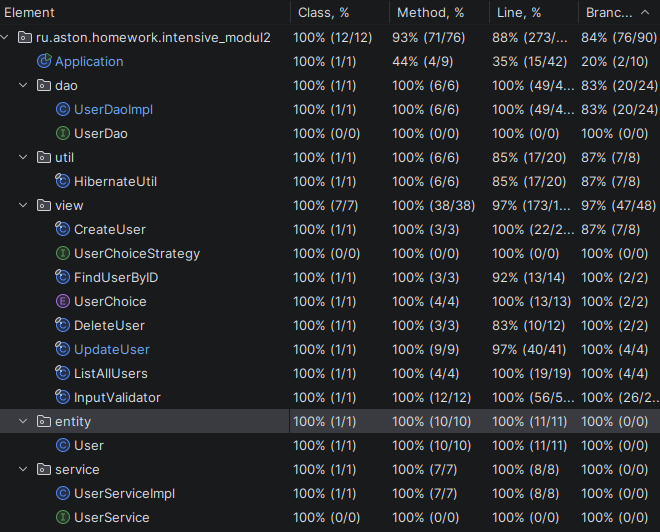
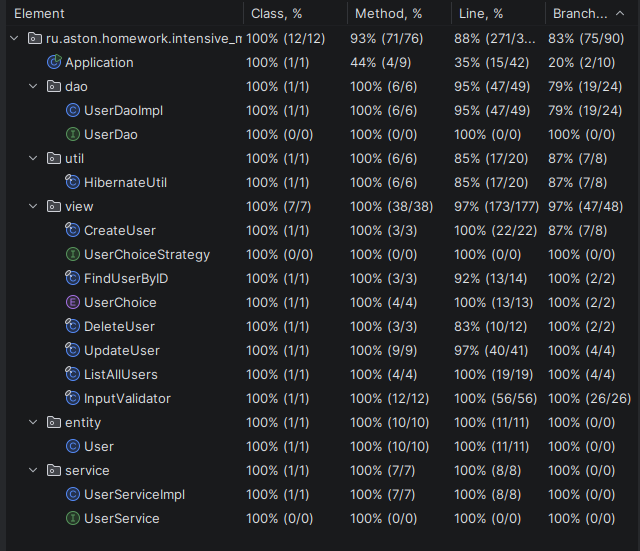
Fixed UserDaoTest, changed screenshots

diff --git a/src/test/java/ru/aston/homework/intensive_modul2/dao/UserDaoTest.java b/src/test/java/ru/aston/homework/intensive_modul2/dao/UserDaoTest.java
@@ -1,47 +1,27 @@
 package ru.aston.homework.intensive_modul2.dao;
 
-import jakarta.transaction.Transactional;
-import org.hibernate.HibernateException;
-import org.hibernate.Session;
 import org.junit.jupiter.api.AfterAll;
 import org.junit.jupiter.api.AfterEach;
 import org.junit.jupiter.api.BeforeAll;
 import org.junit.jupiter.api.BeforeEach;
 import org.junit.jupiter.api.Test;
-import org.junit.jupiter.api.extension.ExtendWith;
-import org.mockito.InjectMocks;
-import org.mockito.Mock;
-import org.mockito.MockedStatic;
-import org.mockito.MockitoAnnotations;
-import org.mockito.junit.jupiter.MockitoExtension;
 import org.testcontainers.junit.jupiter.Container;
 import org.testcontainers.junit.jupiter.Testcontainers;
 import org.testcontainers.containers.PostgreSQLContainer;
 import org.testcontainers.utility.DockerImageName;
 import ru.aston.homework.intensive_modul2.entity.User;
 import ru.aston.homework.intensive_modul2.util.HibernateUtil;
+
 import java.util.List;
 import java.util.Optional;
+
 import static org.assertj.core.api.Assertions.assertThat;
 import static org.assertj.core.api.AssertionsForClassTypes.tuple;
 import static org.junit.jupiter.api.Assertions.*;
-import static org.mockito.ArgumentMatchers.any;
-import static org.mockito.ArgumentMatchers.anyLong;
-import static org.mockito.ArgumentMatchers.anyString;
-import static org.mockito.ArgumentMatchers.eq;
-import static org.mockito.Mockito.doThrow;
-import static org.mockito.Mockito.mockStatic;
-import static org.mockito.Mockito.when;
 
-@Transactional
 @Testcontainers
-@ExtendWith(MockitoExtension.class)
 class UserDaoTest {
 
-    @Mock
-    private Session session;
-
-    @InjectMocks
     private UserDaoImpl userDao;
 
     @Container
@@ -67,7 +47,6 @@ class UserDaoTest {
         System.setProperty("hibernate.connection.username", db.getUsername());
         System.setProperty("hibernate.connection.password", db.getPassword());
         userDao = new UserDaoImpl();
-        MockitoAnnotations.openMocks(this);
     }
 
     @AfterEach
@@ -76,10 +55,8 @@ class UserDaoTest {
             sess.beginTransaction();
             sess.createMutationQuery("DELETE FROM User")
                     .executeUpdate();
-
             sess.getTransaction().commit();
         } catch (Exception e) {
-            e.printStackTrace();
             throw new RuntimeException("Ошибка очистки базы данных", e);
         }
     }
@@ -165,36 +142,6 @@ class UserDaoTest {
         Optional<User> deletedUser = userDao.findById(id);
         assertFalse(deletedUser.isPresent());
     }
-
-    @Test
-    void testDeleteWithRollback() {
-        User user = new User();
-        user.setName("Rollback Test");
-        user.setEmail("rollback@test.com");
-        user.setAge(25);
-        Long id = userDao.create(user);
-
-        try (MockedStatic<HibernateUtil> hibernateMock = mockStatic(HibernateUtil.class)) {
-            hibernateMock.when(HibernateUtil::getSession)
-                    .thenReturn(session);
-
-            when(session.get(User.class, id))
-                    .thenReturn(user);
-
-            doThrow(new RuntimeException("Симулированная ошибка"))
-                    .when(session)
-                    .remove(any());
-
-            try {
-                userDao.delete(id);
-                fail("Ожидалось исключение");
-            } catch (RuntimeException e) {
-
-                assertTrue(userDao.exists(id));
-            }
-        }
-    }
-
 
     @Test
     void testExists() {
@@ -285,21 +232,16 @@ class UserDaoTest {
 
     @Test
     void testUpdateWithActiveTransaction() {
-
         User user = new User();
         user.setName("Active Transaction Test");
         user.setEmail("active@test.com");
         user.setAge(25);
         Long id = userDao.create(user);
-
         Optional<User> optionalUser = userDao.findById(id);
         assertTrue(optionalUser.isPresent());
-
         User updatedUser = optionalUser.get();
         updatedUser.setName("Updated Name");
-
         userDao.update(updatedUser);
-
         User finalUser = userDao.findById(id).orElse(null);
         assertNotNull(finalUser);
         assertEquals("Updated Name", finalUser.getName());
@@ -307,143 +249,18 @@ class UserDaoTest {
 
     @Test
     void testUpdateWithNoTransaction() {
-            User user = new User();
-            user.setName("No Transaction Test");
-            user.setEmail("notransaction@test.com");
-            user.setAge(25);
-            Long id = userDao.create(user);
-
-            Optional<User> optionalUser = userDao.findById(id);
-            assertTrue(optionalUser.isPresent());
-
-            User updatedUser = optionalUser.get();
-            updatedUser.setName("Updated Name");
-
-            userDao.update(updatedUser);
-
-            User finalUser = userDao.findById(id).orElse(null);
-            assertNotNull(finalUser);
-            assertEquals("Updated Name", finalUser.getName());
-    }
-
-    @Test
-    void testUpdateWithRollback() {
-
         User user = new User();
-        user.setName("Rollback Test");
-        user.setEmail("rollback@test.com");
+        user.setName("No Transaction Test");
+        user.setEmail("notransaction@test.com");
         user.setAge(25);
         Long id = userDao.create(user);
-
         Optional<User> optionalUser = userDao.findById(id);
         assertTrue(optionalUser.isPresent());
-
         User updatedUser = optionalUser.get();
         updatedUser.setName("Updated Name");
-
-        String originalName = null;
-
-        try {
-            originalName = updatedUser.getName();
-            userDao.update(updatedUser);
-
-            throw new RuntimeException("Симулированная ошибка при обновлении");
-        } catch (RuntimeException e) {
-
-            User finalUser = userDao.findById(id).orElse(null);
-            assertNotNull(finalUser);
-            assertEquals(originalName, finalUser.getName());
-        }
+        userDao.update(updatedUser);
+        User finalUser = userDao.findById(id).orElse(null);
+        assertNotNull(finalUser);
+        assertEquals("Updated Name", finalUser.getName());
     }
-
-
-    @Test
-    void testFindAllQueryException() {
-        try (MockedStatic<HibernateUtil> hibernateMock = mockStatic(HibernateUtil.class)) {
-            hibernateMock.when(HibernateUtil::getSession)
-                    .thenReturn(session);
-            when(session.createQuery(anyString(), any()))
-                    .thenThrow(new HibernateException("Hibernate query failed"));
-
-            try {
-                userDao.findAll();
-                fail("Ожидалось исключение IllegalArgumentException");
-            } catch (IllegalArgumentException e) {
-                assertThat(e.getMessage()).contains("Error retrieving all users");
-                assertThat(e).hasCauseInstanceOf(HibernateException.class);
-            }
-
-            hibernateMock.verify(HibernateUtil::closeSession);
-        }
-    }
-
-    @Test
-    void testFindAllSessionException() {
-        try (MockedStatic<HibernateUtil> hibernateMock = mockStatic(HibernateUtil.class)) {
-
-            hibernateMock.when(HibernateUtil::getSession)
-                    .thenThrow(new RuntimeException("Session creation failed"));
-
-            try {
-                userDao.findAll();
-                fail("Ожидалось исключение IllegalArgumentException");
-            } catch (IllegalArgumentException e) {
-                assertThat(e.getMessage()).contains("Error retrieving all users");
-                assertThat(e).hasCauseInstanceOf(RuntimeException.class);
-            }
-        }
-    }
-
-    @Test
-    void testFindByIdWithDatabaseError() {
-
-        try (MockedStatic<HibernateUtil> hibernateMock = mockStatic(HibernateUtil.class)) {
-            hibernateMock.when(HibernateUtil::getSession)
-                    .thenReturn(session);
-            doThrow(new HibernateException("Simulate Error"))
-                    .when(session)
-                    .get(eq(User.class), anyLong());
-
-            try {
-                userDao.findById(1L);
-                fail("Ожидалось исключение IllegalArgumentException");
-            } catch (IllegalArgumentException e) {
-                assertThat(e.getMessage()).contains("Error searching for user by ID: 1");
-                assertThat(e).hasCauseInstanceOf(HibernateException.class);
-            }
-        }
-
-    }
-
-    @Test
-    void testFindByIdWithSessionError() {
-        try (var hibernateMock = mockStatic(HibernateUtil.class)) {
-            hibernateMock.when(HibernateUtil::getSession)
-                    .thenThrow(new RuntimeException("Session error"));
-
-            try {
-                userDao.findById(1L);
-                fail("Ожидалось исключение IllegalArgumentException");
-            } catch (IllegalArgumentException e) {
-                assertThat(e.getMessage()).contains("Error searching for user by ID: 1");
-                assertThat(e).hasCauseInstanceOf(RuntimeException.class);
-            }
-        }
-    }
-
-    @Test
-    void testFindByIdWithNullSession() {
-        try (var hibernateMock = mockStatic(HibernateUtil.class)) {
-            hibernateMock.when(HibernateUtil::getSession)
-                    .thenReturn(null);
-
-            try {
-                userDao.findById(1L);
-                fail("Ожидалось исключение IllegalArgumentException");
-            } catch (IllegalArgumentException e) {
-                assertThat(e.getMessage()).contains("Error searching for user by ID: 1");
-            }
-        }
-    }
-
 }
